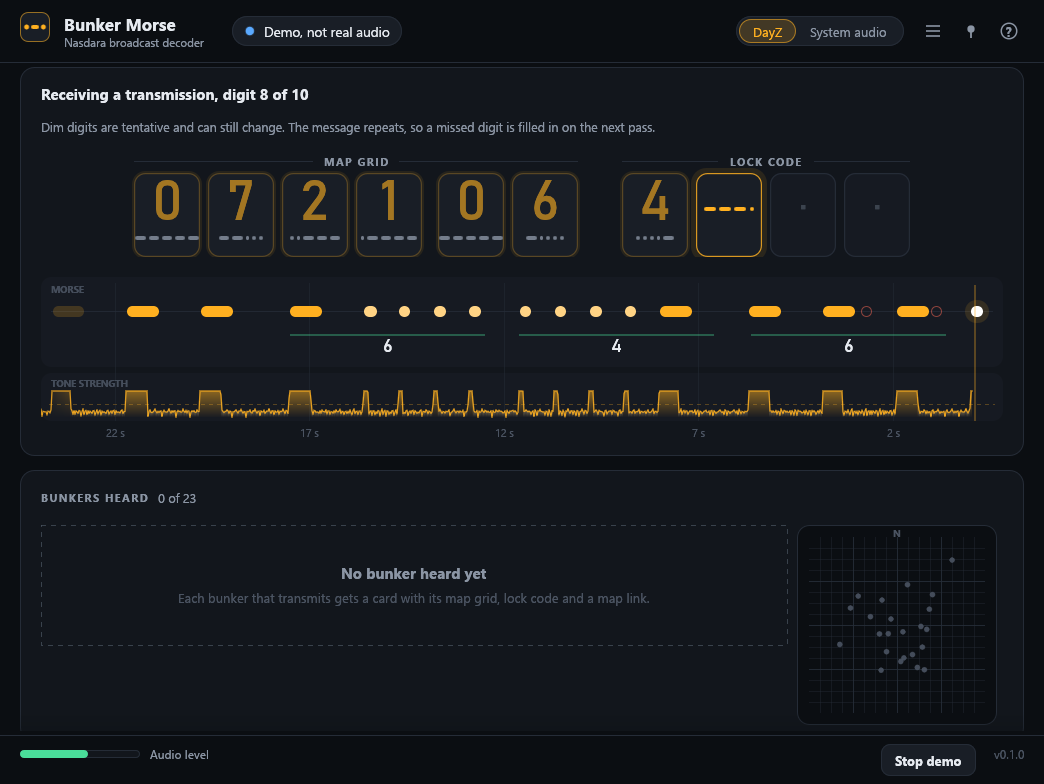
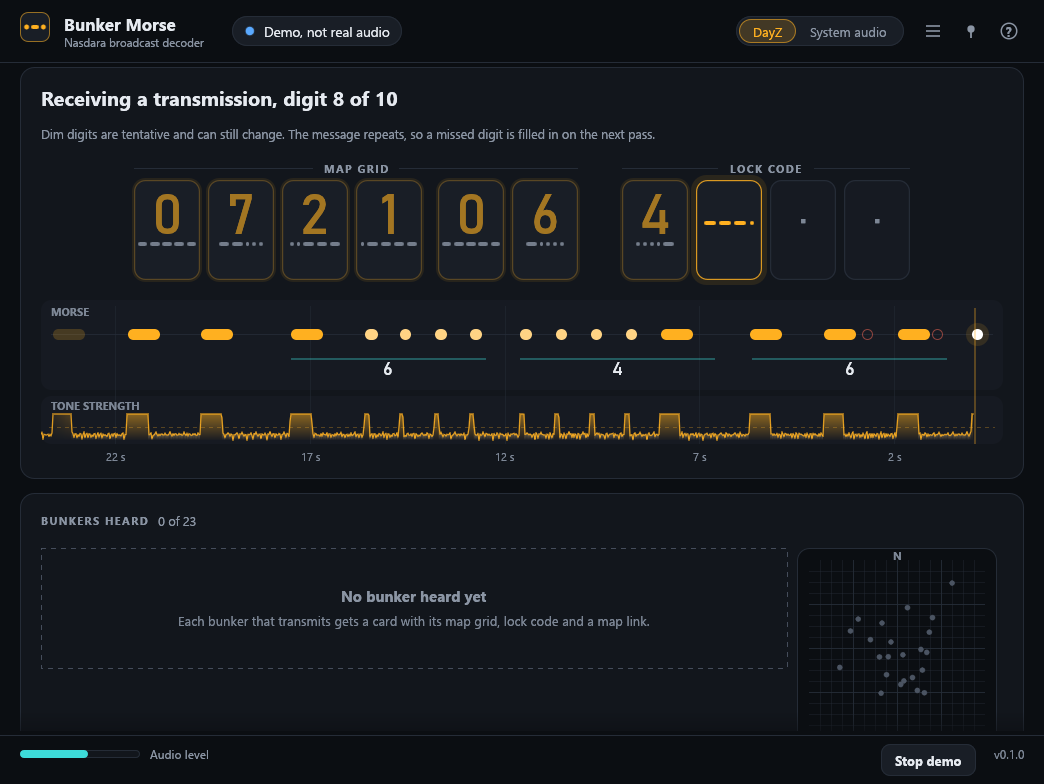
Use the decoder's settled flag, report a dead engine, open links outside the lock
The window now shows only digits the decoder marks settled, instead of its own timing
rule. A banner appears if the listening thread stops. Links for new bunkers open after
the shared lock is released. The minimum window size matches the layout work (760x520).
README: Windows version note, new screenshots.

diff --git a/crates/app/src/ui/mod.rs b/crates/app/src/ui/mod.rs
@@ -94,7 +94,7 @@ pub fn draw(ui: &mut Ui, engine: &Handle, st: &mut UiState) {
     }
 
     size_window(&ctx, st);
-    react_to_new_bunkers(&ctx, st, &mut s);
+    let to_open = react_to_new_bunkers(&ctx, st, &mut s);
     let on_top = st.settings.always_on_top;
     if st.on_top_sent != Some(on_top) {
         st.on_top_sent = Some(on_top);
@@ -142,6 +142,10 @@ pub fn draw(ui: &mut Ui, engine: &Handle, st: &mut UiState) {
         });
 
     drop(s);
+    // opening a link can be slow: never while the engine waits for the lock
+    for url in to_open {
+        let _ = open::that(url);
+    }
     if let Some(page) = st.onboarding {
         let mut page = page;
         match onboarding::show(&ctx, &st.modal_ids, &mut page, st.settings.reduce_motion) {
@@ -184,7 +188,8 @@ fn finish_onboarding(st: &mut UiState) {
     st.settings.onboarded = true;
 }
 
-fn react_to_new_bunkers(ctx: &egui::Context, st: &mut UiState, s: &mut Shared) {
+fn react_to_new_bunkers(ctx: &egui::Context, st: &mut UiState, s: &mut Shared) -> Vec<String> {
+    let mut to_open = Vec::new();
     st.card_seen
         .retain(|key, _| s.cards.iter().any(|c| &c.key == key));
     for key in std::mem::take(&mut s.changed) {
@@ -210,9 +215,10 @@ fn react_to_new_bunkers(ctx: &egui::Context, st: &mut UiState, s: &mut Shared) {
             card.url.as_deref(),
         ) && nasdara_decoder::bunkers::is_izurvive_url(url)
         {
-            let _ = open::that(url);
+            to_open.push(url.to_string());
         }
     }
+    to_open
 }
 
 fn header(ui: &mut Ui, engine: &Handle, st: &mut UiState, s: &Shared) {
@@ -344,6 +350,13 @@ fn banner(ui: &mut Ui, engine: &Handle, s: &Shared) {
     let mut lines: Vec<(egui::Color32, String, Option<&str>)> = Vec::new();
     if silent {
         lines.push((AMBER, format!("Nothing audible from DayZ for {} seconds. On some PCs Windows does not hand the game's sound to the app.", s.silent_for as u64), Some("Listen to system audio")));
+    }
+    if !s.engine_alive {
+        lines.push((
+            RED,
+            "Listening stopped unexpectedly. Close the app and open it again.".to_string(),
+            None,
+        ));
     }
     if let Status::Failed(e) = &s.status {
         lines.push((RED, e.clone(), None));

diff --git a/crates/app/src/ui/slots.rs b/crates/app/src/ui/slots.rs
@@ -1,7 +1,6 @@
 //! The ten digit slots of a bunker message: six grid digits and four lock code digits.
 
 use egui::{Align2, Pos2, Rect, Sense, Stroke, StrokeKind, Ui, Vec2};
-use nasdara_decoder::grid::SHIPPED_TIMING;
 use nasdara_decoder::morse::pattern_of;
 
 use super::UiState;
@@ -12,8 +11,6 @@ use crate::theme::{self, AMBER, DIM, FAINT, RED, RULE, STROKE, SURFACE_HI, TEAL,
 const DIGITS: usize = 10;
 /// Length above which a tone counts as a dash (dots are ~0.09 s, dashes ~0.48 s).
 pub const DASH_FROM_S: f64 = 0.28;
-/// Extra wait after the next digit's expected start before the previous digit counts as complete.
-const SETTLE_S: f64 = 0.9;
 
 #[derive(Clone, Copy, PartialEq, Eq)]
 enum Phase {
@@ -53,14 +50,14 @@ pub fn view(s: &Shared) -> View {
     let mut live_symbols = String::new();
     if s.receiving() {
         let preview = s.preview.as_ref();
-        // The last digit of a partial trace is fitted to beeps that may still be arriving (three dashes of a 0 look
-        // like a 2 with its dots lost), so it counts only once the next digit's first beep is due and has not come.
+        // The decoder marks the trailing digit unsettled while its beeps may still be arriving (three dashes of a 0
+        // look like a 2 with its dots lost); only settled digits are shown.
         let settled = preview.map_or(0, |p| {
-            let last_settled = p
-                .digits
-                .last()
-                .is_some_and(|d| now > d.window_end + SHIPPED_TIMING.digit_gap + SETTLE_S);
-            p.digits.len().min(DIGITS) - usize::from(!last_settled && !p.digits.is_empty())
+            p.digits
+                .iter()
+                .take(DIGITS)
+                .take_while(|d| d.settled)
+                .count()
         });
         if let Some(p) = preview {
             for (i, d) in p.digits.iter().take(settled).enumerate() {

diff --git a/crates/app/src/app.rs b/crates/app/src/app.rs
@@ -80,7 +80,7 @@ pub fn run() -> eframe::Result {
         viewport: egui::ViewportBuilder::default()
             .with_title("Bunker Morse")
             .with_inner_size([1060.0, 800.0])
-            .with_min_inner_size([900.0, 620.0])
+            .with_min_inner_size([760.0, 520.0])
             .with_icon(icon),
         ..Default::default()
     };

diff --git a/README.md b/README.md
@@ -9,7 +9,7 @@ by ear hard.
 
 ![The window while a message is arriving](docs/images/receiving.png)
 
-*Screenshots show the built-in demo, which plays synthetic beeps. No game audio is used or included in this repository.*
+*The first screenshot is the built-in demo, which plays synthetic beeps. The second is a rendered test scene of a finished message. No game audio is used or included in this repository.*
 
 Unofficial fan project, not affiliated with Bohemia Interactive.
 
@@ -26,7 +26,7 @@ Unofficial fan project, not affiliated with Bohemia Interactive.
 Three of the 23 bunkers transmit at a time, one after the other, about 90 seconds each, and the cycle repeats. Every
 repeat fills in digits the previous one missed, so a card shows `?` for a digit until it has been heard clearly.
 
-![Bunker cards and the map](docs/images/cards.png)
+![The result of a finished message](docs/images/result.png)
 
 The window can stay above the game: the pin button in the header does that, and it needs the game in borderless windowed
 mode. The gear menu next to it holds the other options: flash the taskbar when a bunker is read (the flash may not be
@@ -39,6 +39,10 @@ The app listens to the audio of the DayZ process. On some PCs, mostly with virtu
 credits the game's sound to the audio engine instead, and the app hears silence. After 20 seconds of silence the window
 offers **Listen to system audio**. That mode hears everything the PC plays, so it only accepts a message whose grid is
 one of the real bunkers. Giving DayZ its own output device in the Windows volume mixer also fixes it.
+
+Capturing one program's audio needs Windows 11 or a Windows 10 build of 20348 or later, according to Microsoft's
+documentation; one of its pages gives 20438, and nothing there covers Windows 10 22H2 either way. Where the DayZ capture
+cannot start, the window says so and System audio works on any version.
 
 ### Windows warnings
 
